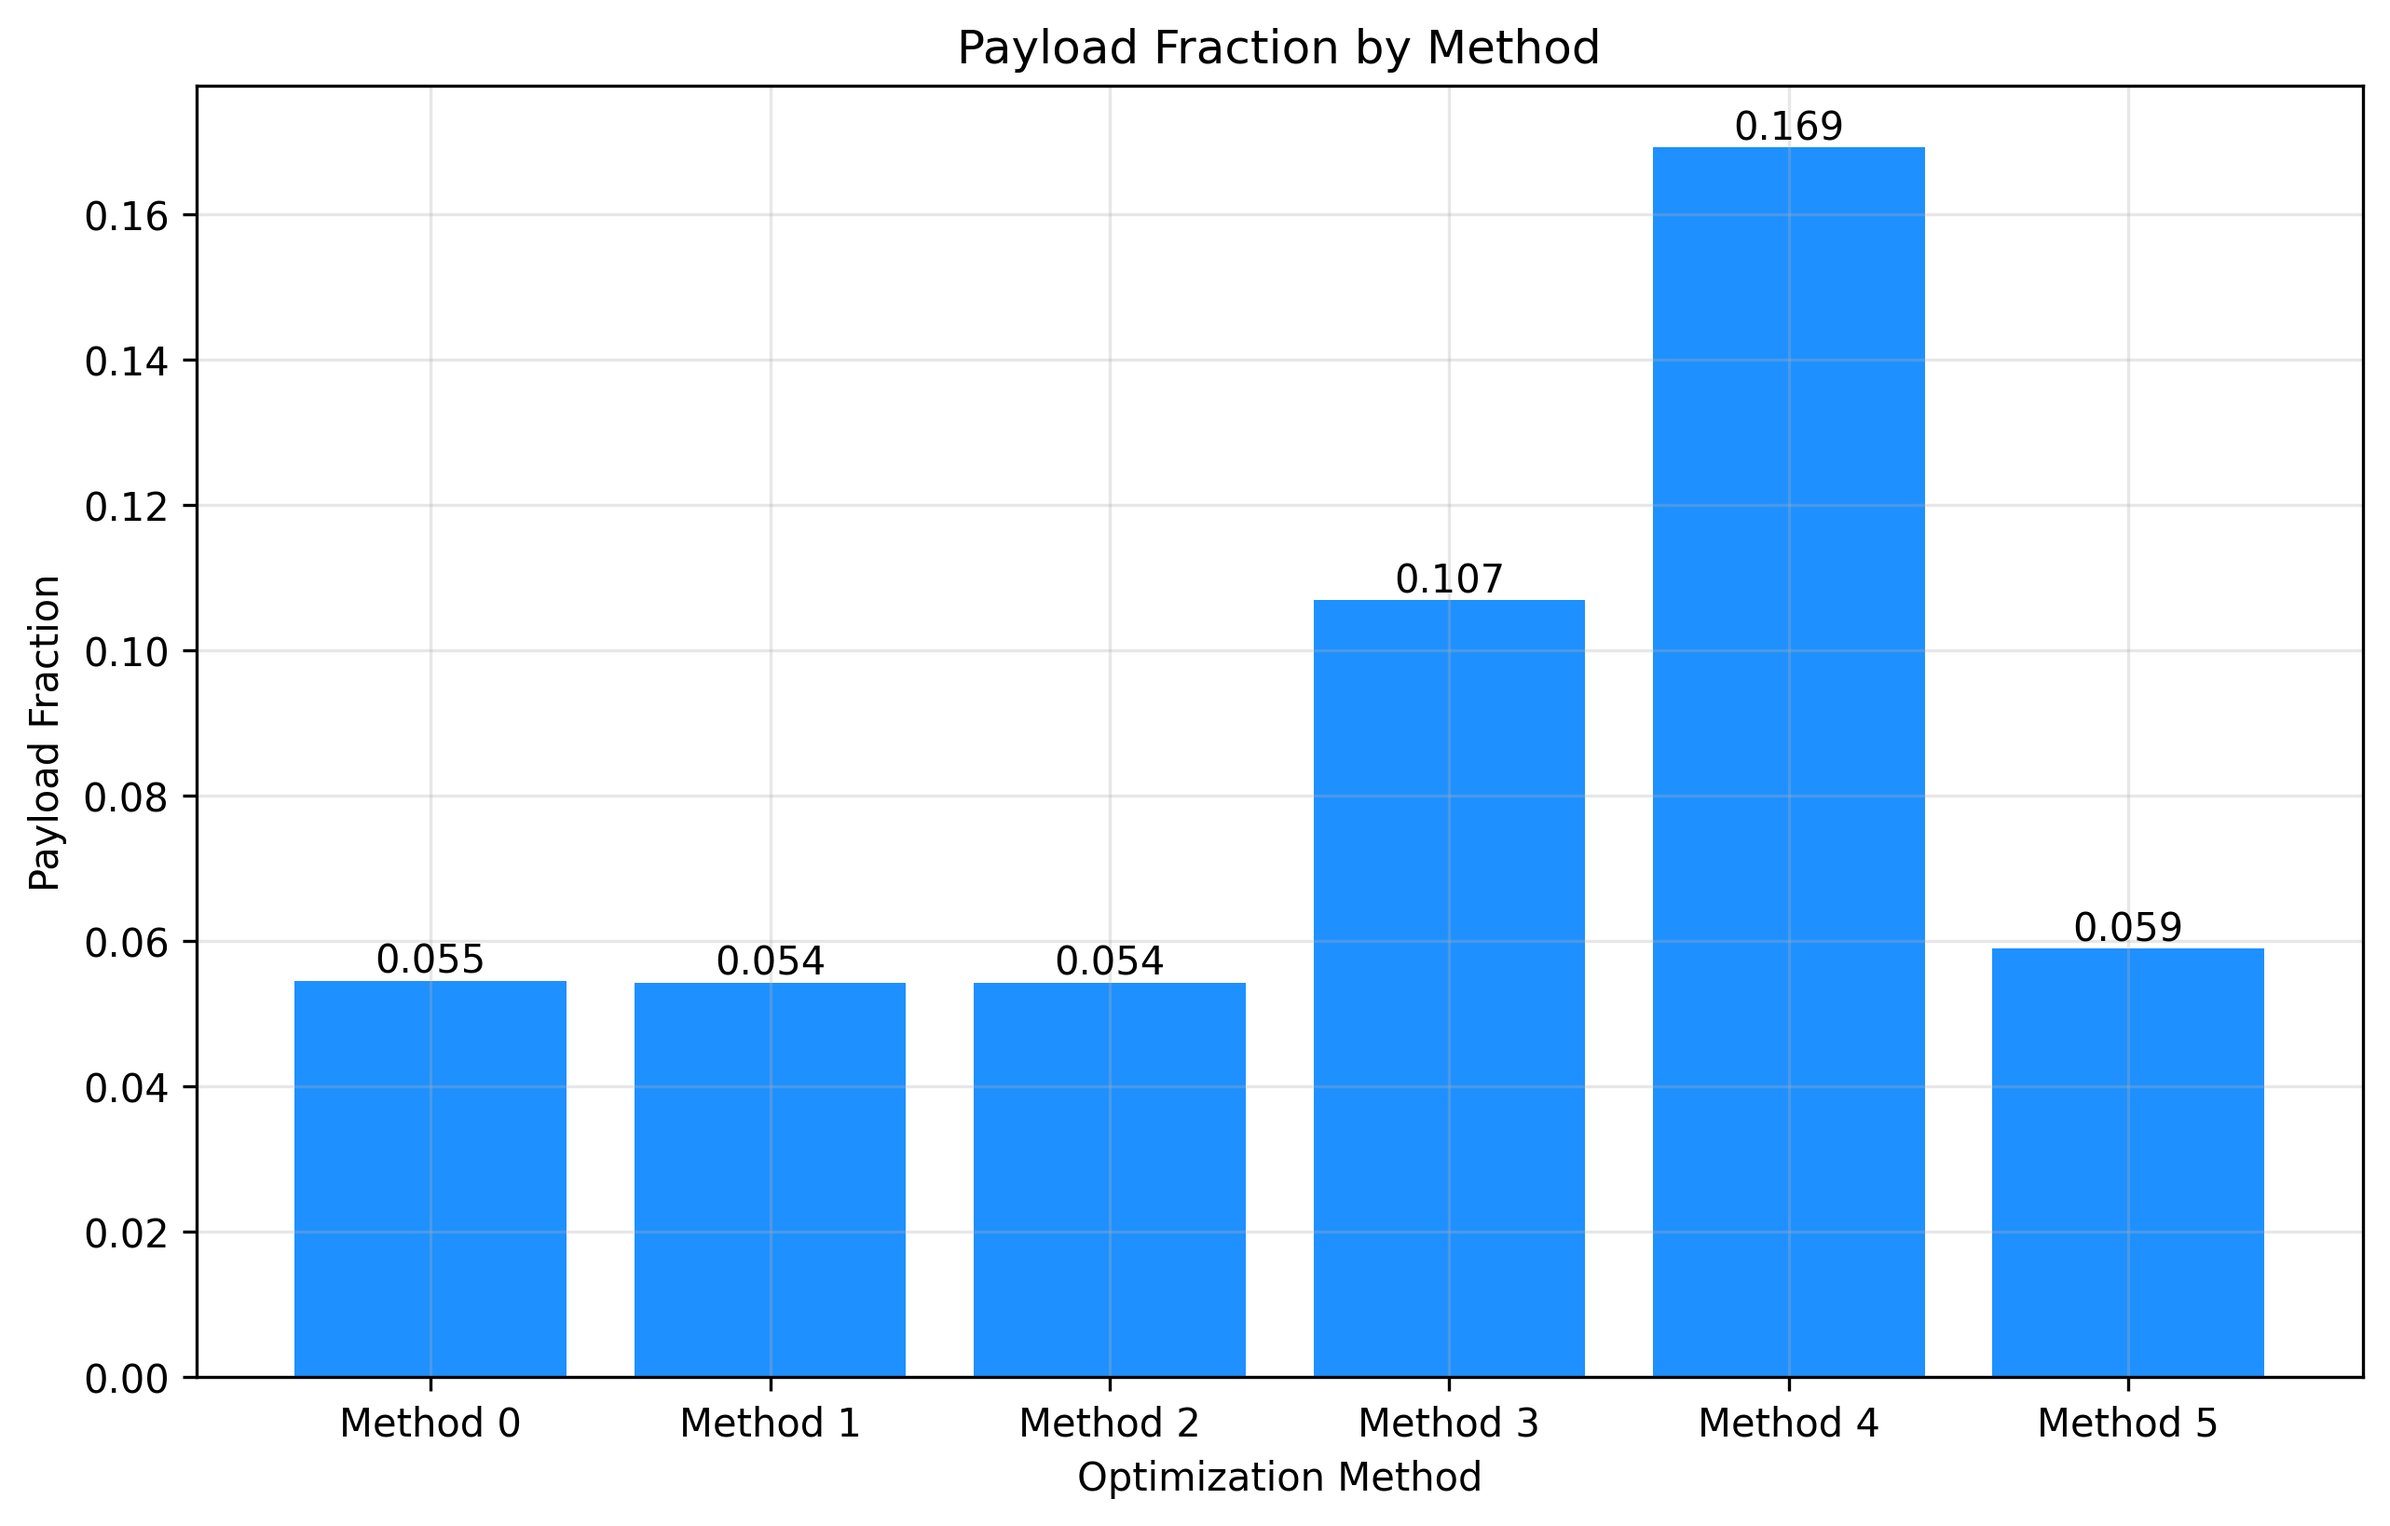
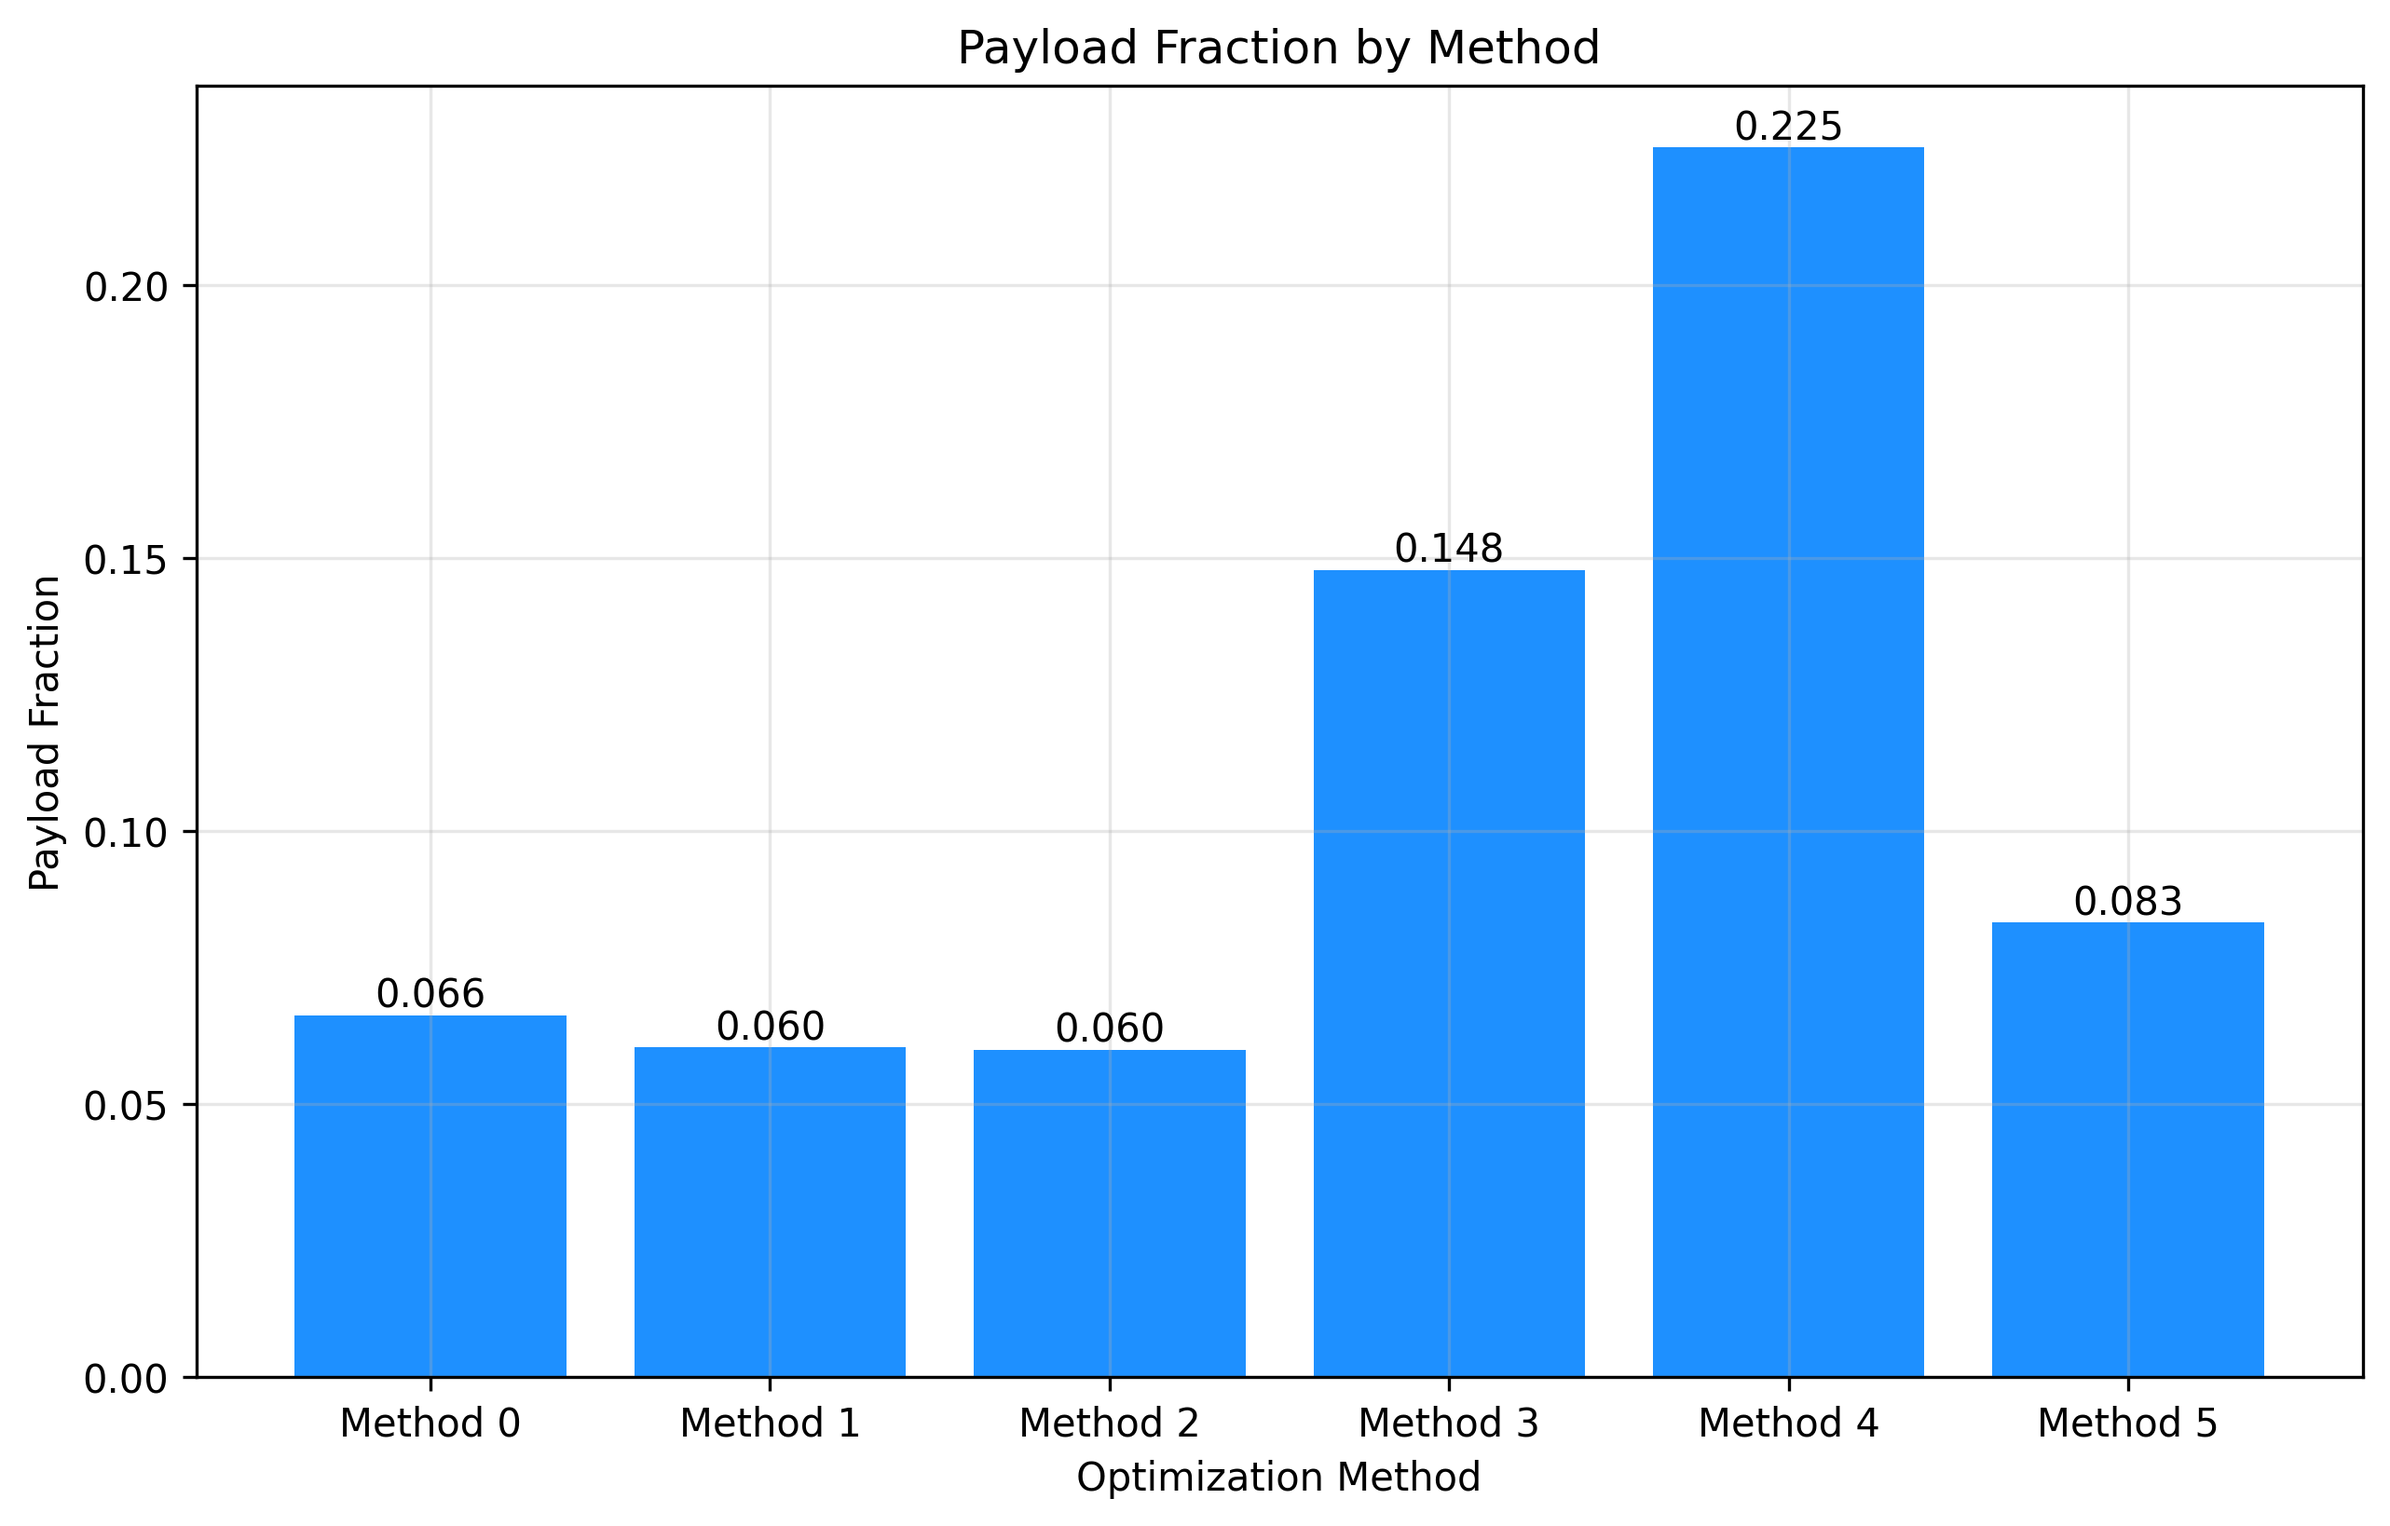
FIX PSO and DE

diff --git a/Stage_Opt/src/optimization/solvers/pso_solver.py b/Stage_Opt/src/optimization/solvers/pso_solver.py
@@ -24,11 +24,20 @@ class ParticleSwarmOptimizer(BaseSolver):
         """Initialize particle swarm with positions and velocities."""
         # Initialize positions using Dirichlet distribution for better balance
         positions = np.zeros((self.population_size, self.n_stages), dtype=np.float64)
-        alpha = np.ones(self.n_stages) * 5.0  # Concentration parameter for more balanced distribution
+        # Increase alpha for more uniform distribution
+        alpha = np.ones(self.n_stages) * 15.0  # Increased from 5.0 to encourage more even distribution
+        
+        # Minimum fraction of total delta-v per stage based on equal distribution
+        min_stage_fraction = 1.0 / self.n_stages  # Equal distribution baseline
         
         for i in range(self.population_size):
             # Generate balanced proportions using Dirichlet
             props = np.random.dirichlet(alpha)
+            
+            # Ensure minimum stage allocation
+            while np.any(props < min_stage_fraction):
+                props = np.random.dirichlet(alpha)
+            
             positions[i] = props * self.TOTAL_DELTA_V
             
             # Enforce first stage constraints (15-80% of total)

diff --git a/Stage_Opt/src/optimization/solvers/de_solver.py b/Stage_Opt/src/optimization/solvers/de_solver.py
@@ -23,11 +23,20 @@ class DifferentialEvolutionSolver(BaseSolver):
     def initialize_population(self):
         """Initialize population with balanced stage allocations."""
         population = np.zeros((self.population_size, self.n_stages), dtype=np.float64)
-        alpha = np.ones(self.n_stages) * 5.0  # Concentration parameter for balanced distribution
+        # Increase alpha for more uniform distribution
+        alpha = np.ones(self.n_stages) * 15.0  # Increased from 5.0 to encourage more even distribution
+        
+        # Minimum fraction of total delta-v per stage based on equal distribution
+        min_stage_fraction = 1.0 / self.n_stages  # Equal distribution baseline
         
         for i in range(self.population_size):
             # Generate balanced proportions using Dirichlet
             props = np.random.dirichlet(alpha)
+            
+            # Ensure minimum stage allocation
+            while np.any(props < min_stage_fraction):
+                props = np.random.dirichlet(alpha)
+            
             population[i] = props * self.TOTAL_DELTA_V
             
             # Enforce first stage constraints (15-80% of total)
